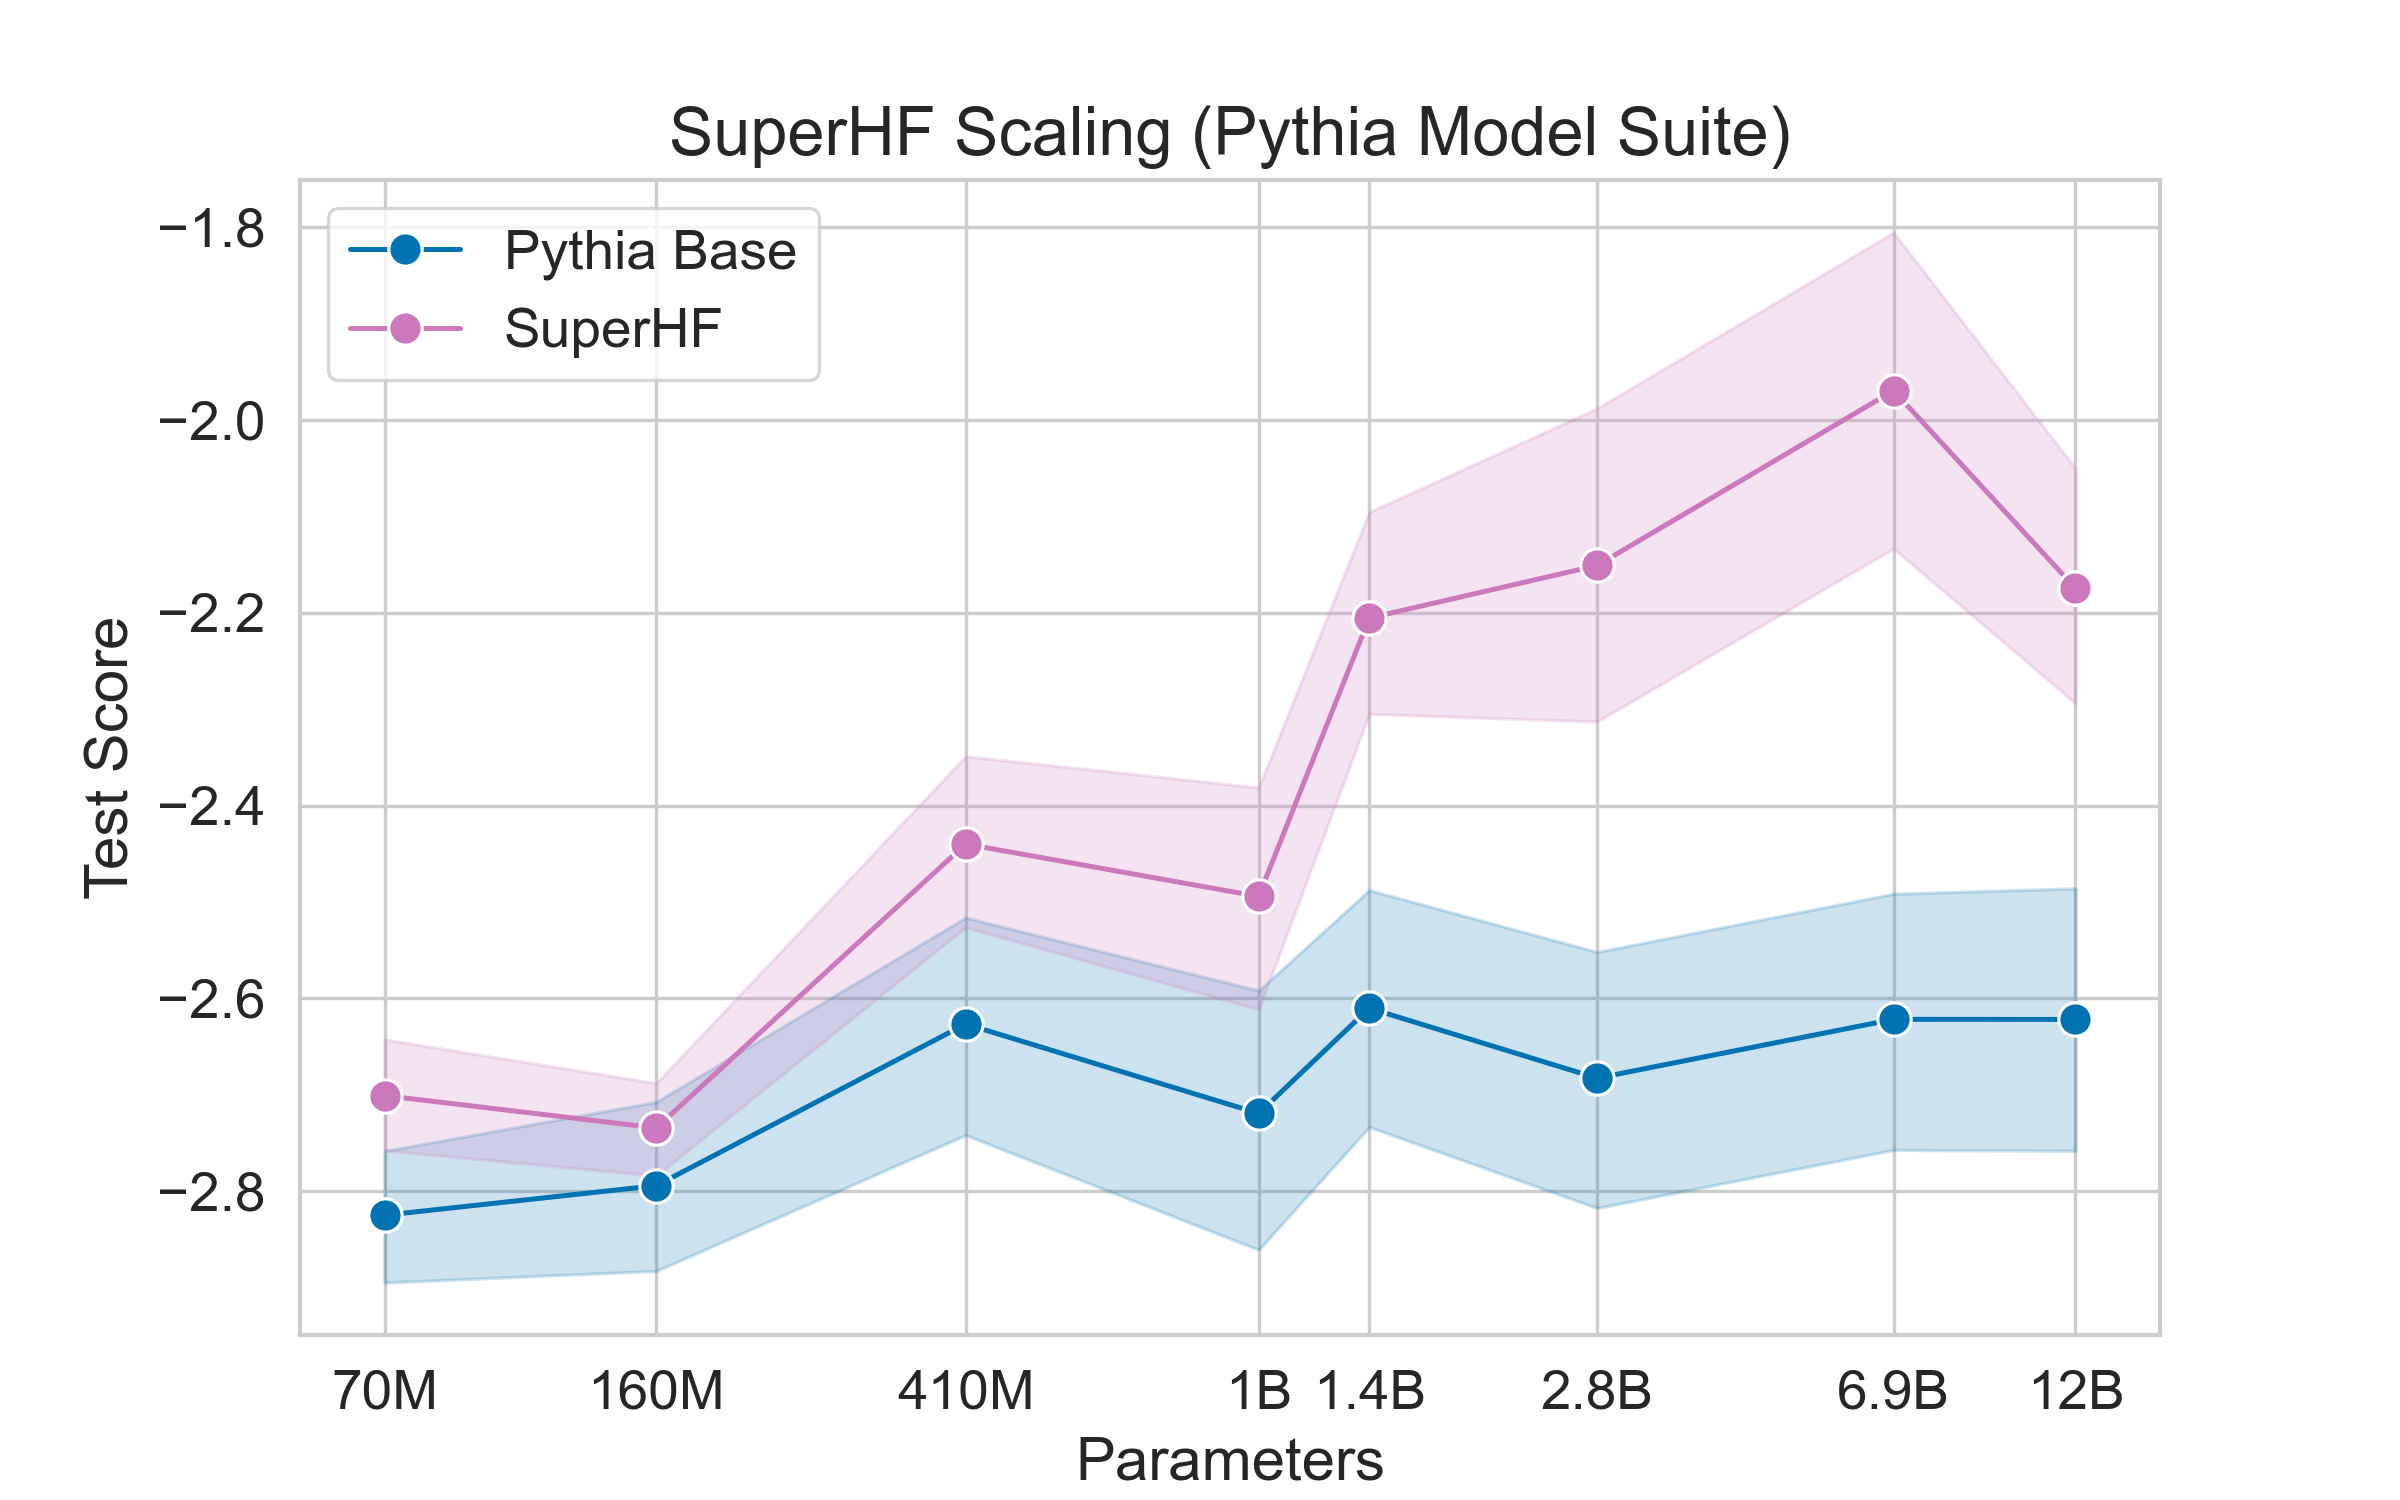
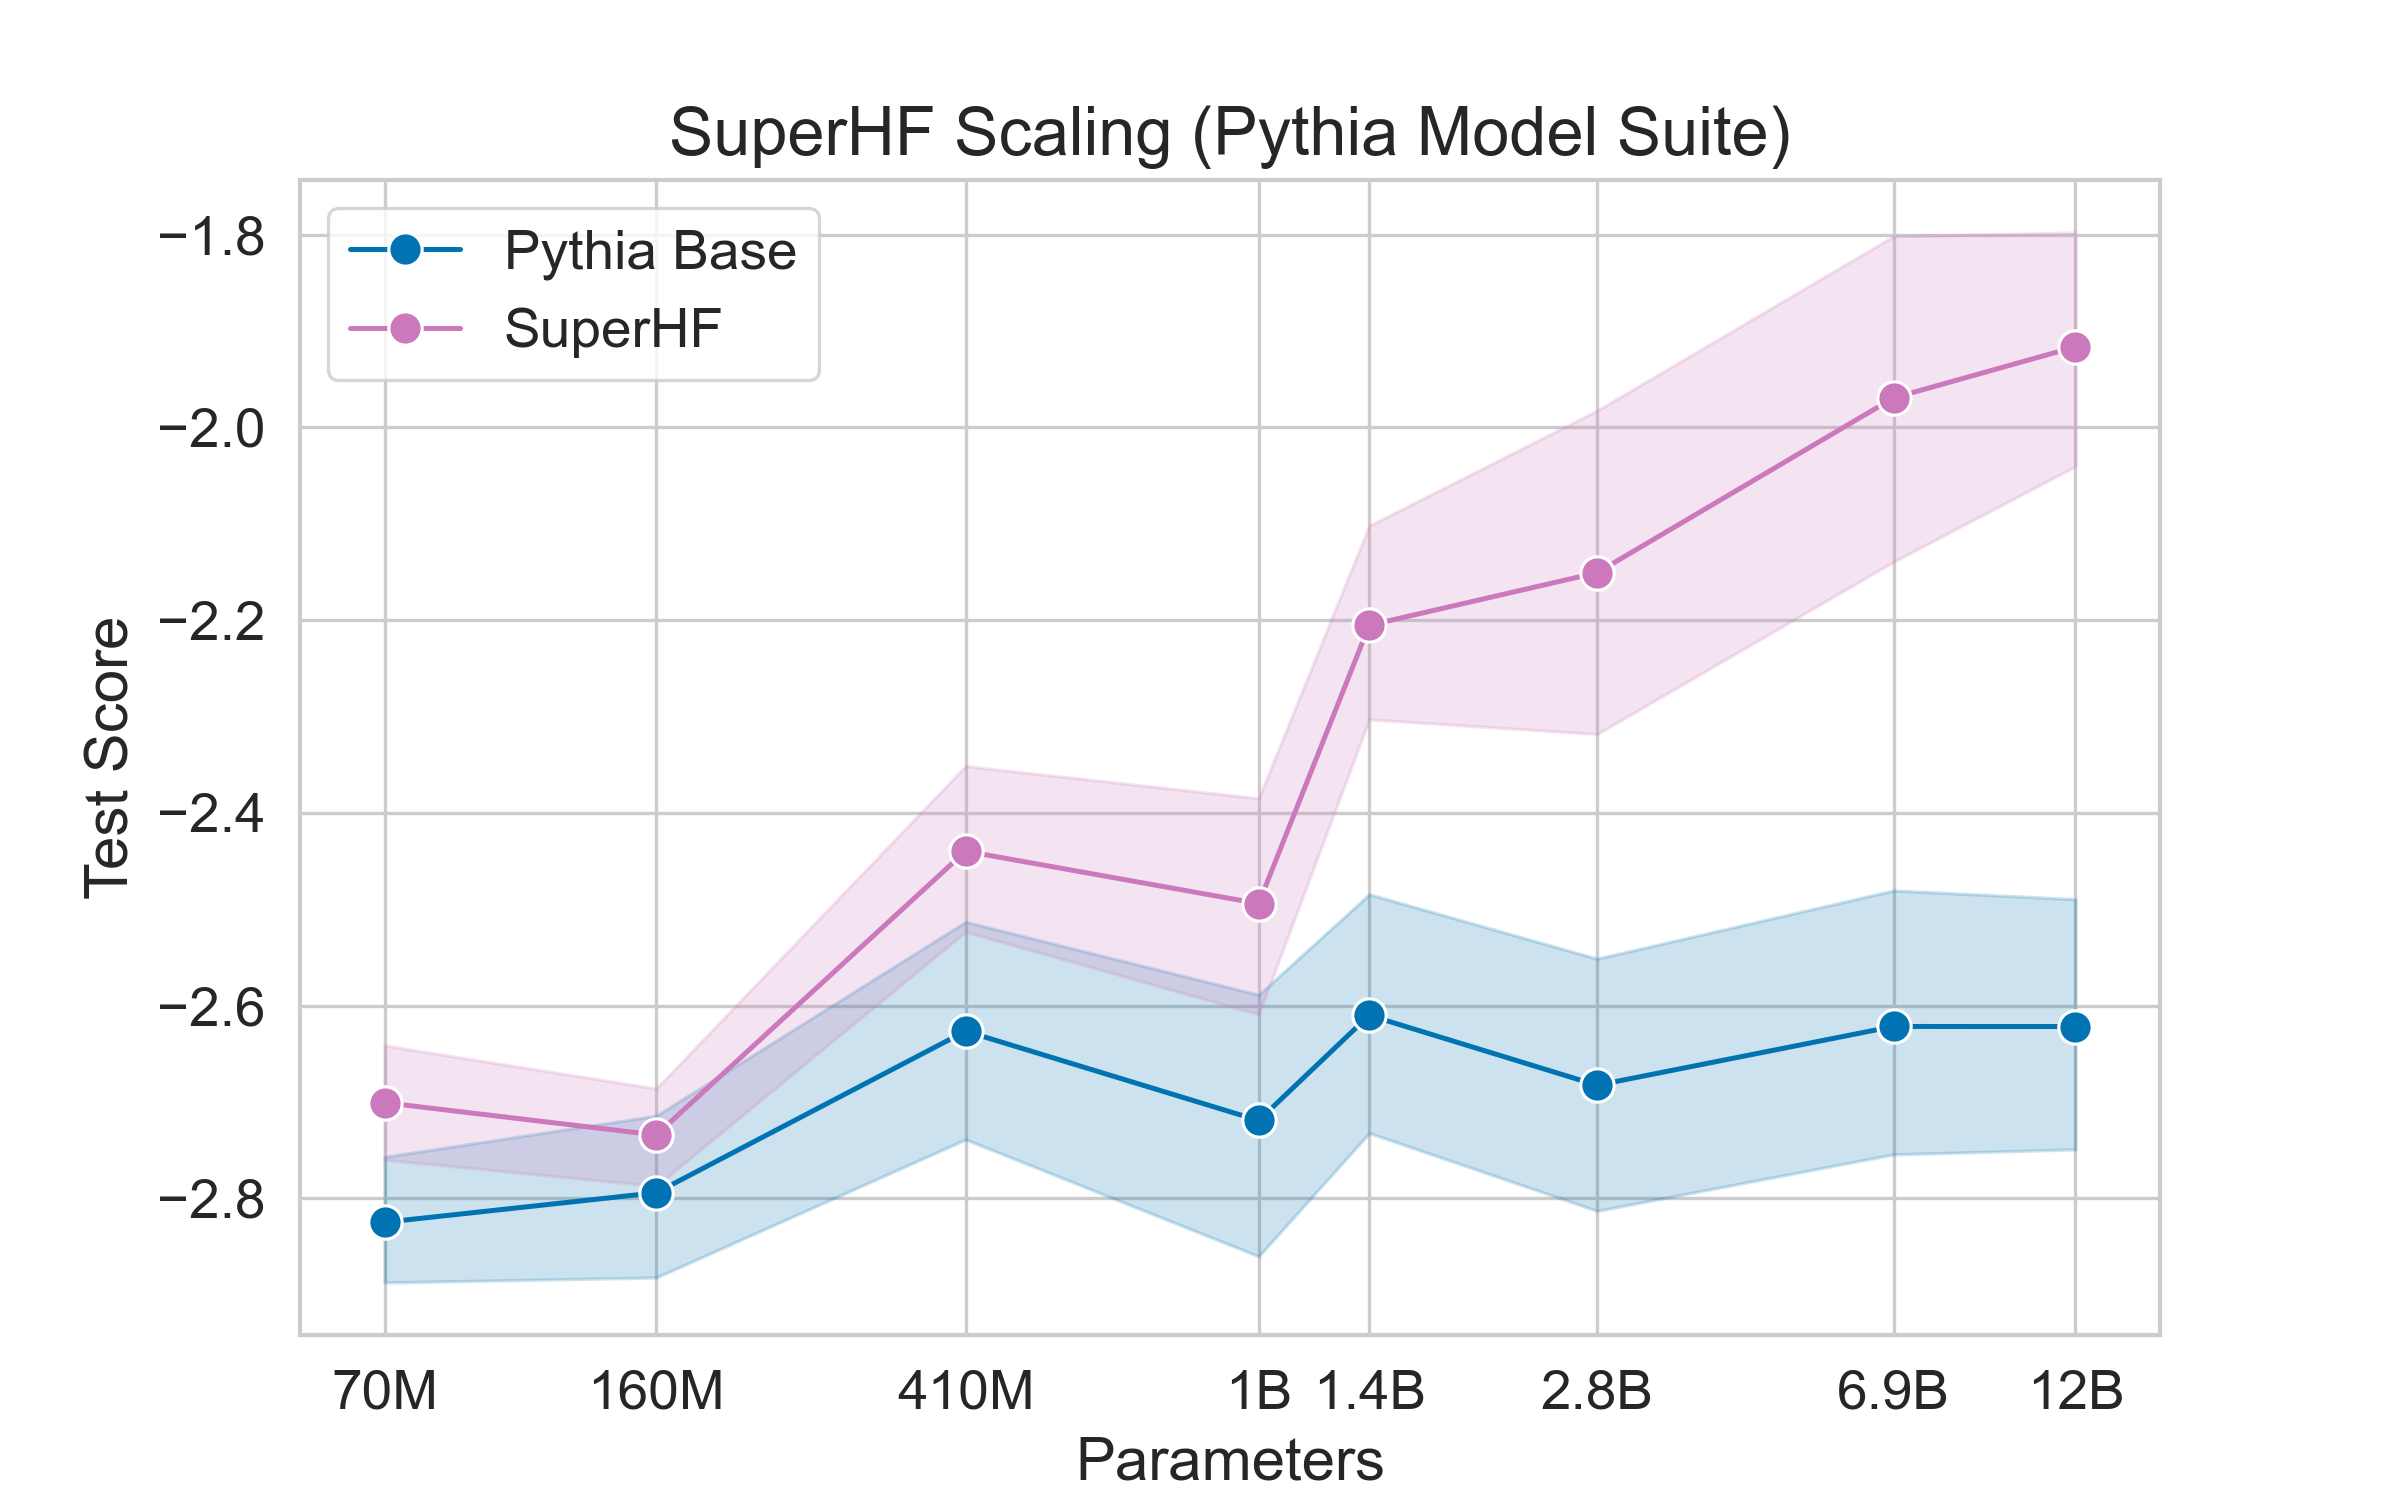
shf pythia 12B 5e-5 plot

diff --git a/charts/model_size.py b/charts/model_size.py
@@ -31,7 +31,8 @@ def main() -> None:
         "shf-pythia-1.4b.json",
         "shf-pythia-2.8b.json",
         "shf-pythia-6.9b.json",
-        "shf-pythia-12b.json",
+        # "shf-pythia-12b.json",  # 3e-5 LR
+        "shf-pythia-12B@v2.json",  # 5e-5 LR
         "pythia-70m-deduped.json",
         "pythia-160m-deduped.json",
         "pythia-410m-deduped.json",
